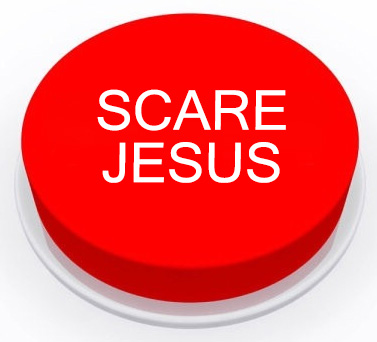
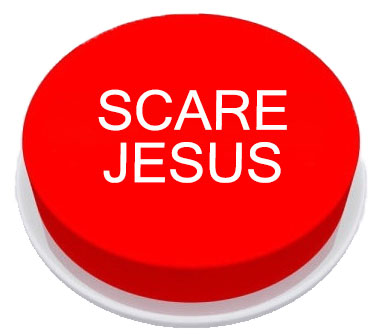
Refactor

diff --git a/index.html b/index.html
@@ -68,7 +68,7 @@
       width: 100%;
     }
     #scare button {
-      background-image: url(scare.png);
+      background-image: url(scare.jpg);
       background-repeat: no-repeat;
       background-position: center center;
       background-size: contain;
